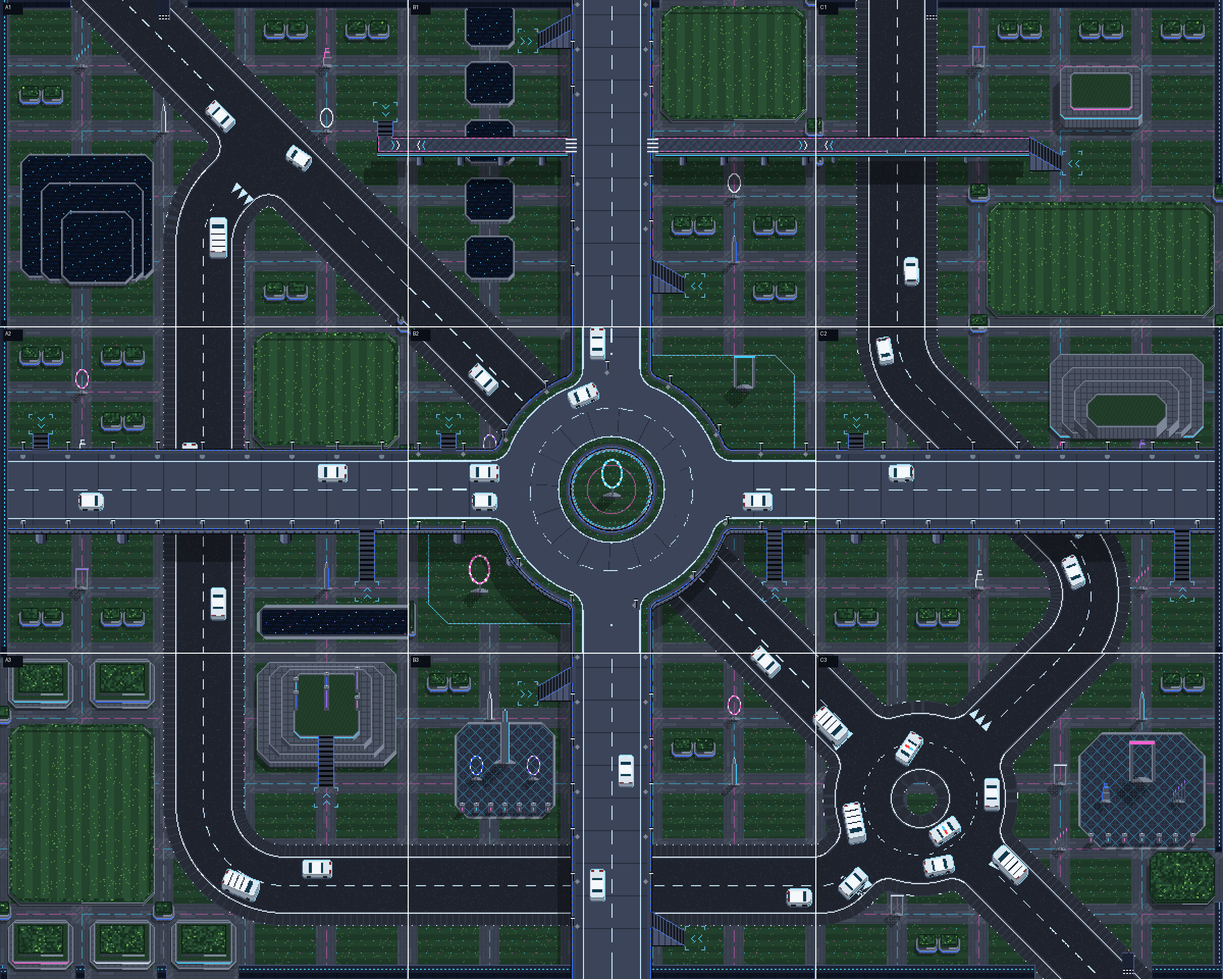
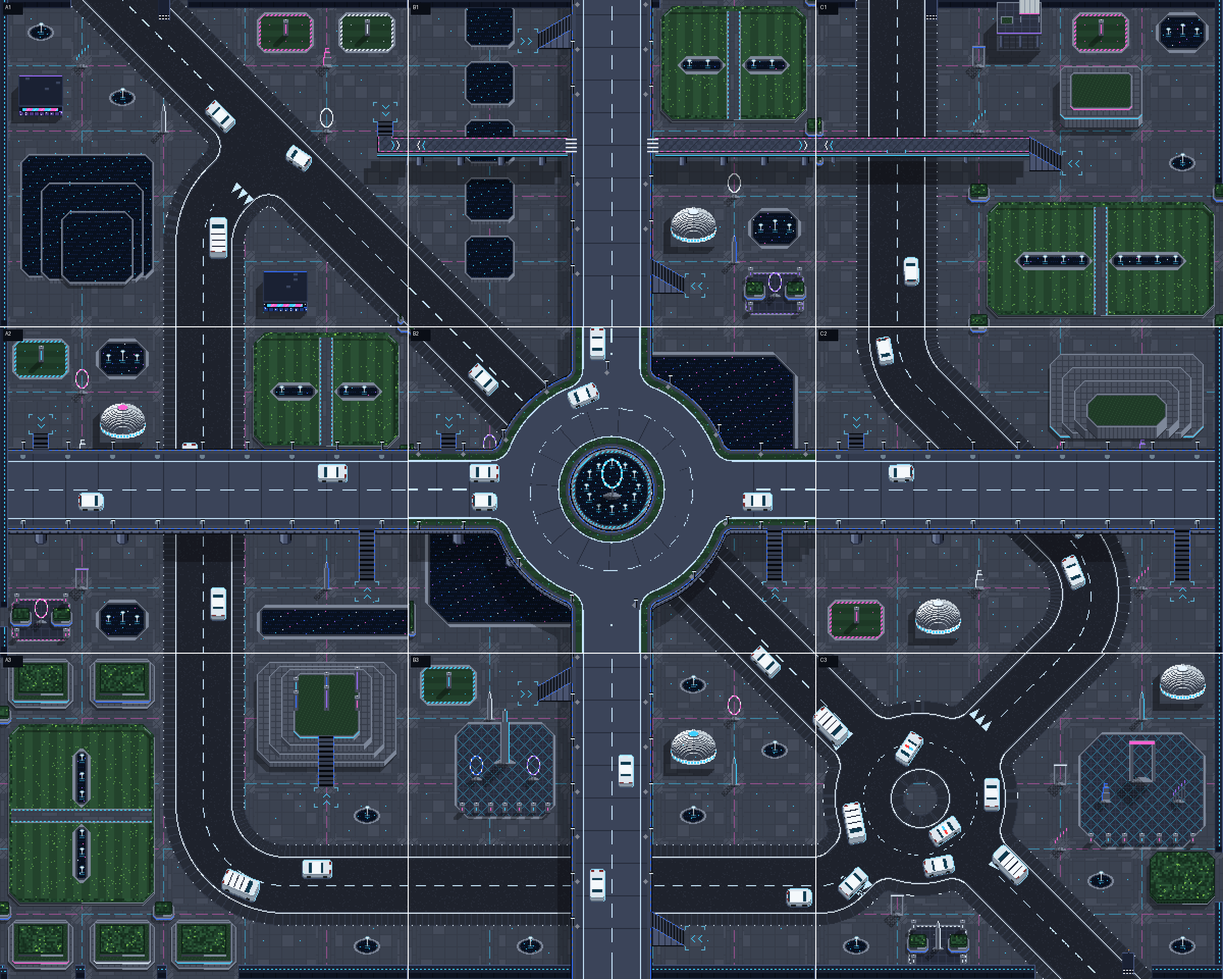
P6.5 (Edit 67): Parkland as an Expo site; pavilions, parterres, fountains, courts; the B2 pools back
- Paved site; open garden cells take a programme in a fixed rotation:
  pavilion (dome, LED box, canopy; solid to plan), parterre, fountain, court.
- Small round fountains in part-free cells; great lawns split by a
  cross-walk with reflecting rills and jets; jets draw as water.
- B2: the two pools back; the ring's island a fountain at Z1 with jets.
- Audit 200/200; test_p6.js 44/44. Decisions 358-362.

Claude-Session: https://claude.ai/code/session_01KeEnBqKVKChcdtWf1hTxkG

diff --git a/prototypes/p6/dummies_p6.html b/prototypes/p6/dummies_p6.html
@@ -5365,6 +5365,58 @@ document.getElementById('btn-full').addEventListener('click', () => {
     const a = GPL / U / 2, b = a * 0.7, x = wx / U, y = wy / U, fp = chamf(Math.round(x - a), Math.round(y - b), Math.round(x + a), Math.round(y + b), 3);
     mass(B, fp, x - a, y - b, x + a, y + b, 0, 3, 'conc', LEDS[1], true); mass(B, (px, py, i) => fp(px, py, (i || 0) + 2), x - a, y - b, x + a, y + b, 3, 4, 'hedge', null, false, 'hedge');
   }
+  // ---------- P6.5 (Edit 67): an Expo site. Every open garden cell takes a programme in a fixed rotation: a parterre (a framed lawn
+  // with a lit edge and a light at its centre), a plaza (planters, lit bollards), a fountain (a basin with jets) or a pavilion (a
+  // drum, an LED box or a canopy on pilotis; solid to its plan). The great lawn takes a reflecting rill with jets on its long axis.
+  const PROG = ['pavilion', 'parterre', 'fountain', 'plaza', 'parterre', 'pavilion', 'fountain', 'parterre']; // two pavilions, three parterres, two fountains, a court in eight
+  function jet(B, x, y, h) { // art px: a ripple ring at its foot, a fine column, a soft plume (a cloud of spray, never an arrow)
+    for (let i = -3; i <= 3; i++) for (const j of [-1, 1]) if (Math.abs(i) + Math.abs(j) * 2 <= 4) B.mix(x + i, y + j, N.cyan, 0.45);
+    for (let t = 1; t < h; t++) B.mix(x, y - t, K.white, 0.55 + 0.35 * t / h);
+    for (let j = -2; j <= 1; j++) for (let i = -2; i <= 2; i++) { const d = i * i / 4 + j * j / 2.2; if (d <= 1) B.mix(x + i, y - h + j, d < 0.45 ? K.white : mixK(K.white, N.cyan, 0.5), d < 0.45 ? 0.95 : 0.6); }
+  }
+  function domeSprite(rx, ry, wallH, led) { // art px: an Expo dome: a white drum with a glazed band, a ribbed dome, a lit oculus
+    const dh = Math.round(ry * 1.4), top = wallH + dh + 2, S = { w: 2 * rx + 3, h: 2 * ry + top + 3, ox: rx + 1, oy: ry + top + 1 }; S.d = new Uint32Array(S.w * S.h);
+    const put = (x, y, c) => { const X0 = x + S.ox, Y0 = y + S.oy; if (X0 >= 0 && Y0 >= 0 && X0 < S.w && Y0 < S.h) S.d[Y0 * S.w + X0] = c; };
+    for (let x = -rx; x <= rx; x++) { const yb = Math.round(ry * Math.sqrt(Math.max(0, 1 - (x * x) / (rx * rx)))), u = x / rx; for (let z = 0; z < wallH; z++) put(x, yb - z, z === 0 ? CON.d : z >= wallH - 3 && z < wallH - 1 ? (x % 3 ? N.cyan : K.white) : u < -0.5 ? N.stoneD : u > 0.4 ? N.stoneL : N.stone); }
+    for (let y = -ry; y <= ry; y++) for (let x = -rx; x <= rx; x++) { const e = (x * x) / (rx * rx) + (y * y) / (ry * ry); if (e > 1) continue; const lift = Math.round(dh * Math.sqrt(Math.max(0, 1 - e))), rib = Math.abs(Math.atan2(y * rx / ry, x) * 8 / Math.PI % 1) < 0.12; put(x, y - wallH - lift, e < 0.05 ? led : e > 0.85 ? N.stoneD : rib ? N.stoneD : x < 0 ? N.stoneL : N.stone); }
+    return S;
+  }
+  function parterre(B, r, led) {
+    const [x0, y0, x1, y1] = r, f = chamf(x0 + 8, y0 + 8, x1 - 8, y1 - 8, 16);
+    each((x, y, wx, wy) => { if (!f(wx, wy)) return; B.put(x, y, !f(wx, wy, 4) ? CON.l : !f(wx, wy, 8) ? ((x + y) % 4 < 2 ? led : CON.m) : (x % 16 === 8 && y % 16 === 8) ? mixK(TURF[1], led, 0.7) : TURF[Math.floor(y / 6) % 2]); });
+    monolith(B, (x0 + x1) / 2 / U, (y0 + y1) / 2 / U + 2, 0, 14, led);
+  }
+  function fountainCell(B, r) {
+    const [x0, y0, x1, y1] = r, f = chamf(x0 + 18, y0 + 14, x1 - 18, y1 - 14, 18), cx = (x0 + x1) / 2, cy = (y0 + y1) / 2;
+    poolFP(B, f); for (const dx of [-28, 0, 28]) jet(B, Math.round((cx + dx) / U), Math.round(cy / U) + 2, dx ? 6 : 10);
+  }
+  function plazaCell(B, r, led, i) { // a sculpture court, as B3 and C3: a lit kerb, paving, a sculpture on the axis, planters, a bollard at each corner
+    const [x0, y0, x1, y1] = r, f = chamf(x0 + 6, y0 + 6, x1 - 6, y1 - 6, 12), cx = (x0 + x1) / 2, cy = (y0 + y1) / 2;
+    each((x, y, wx, wy) => { if (!f(wx, wy)) return; B.put(x, y, !f(wx, wy, 2) ? CON.l : !f(wx, wy, 4) ? ((x + y) % 4 < 2 ? led : CON.m) : (x % 8 === 0 || y % 8 === 0) ? N.tile2 : (x % 16 === 4 && y % 16 === 4) ? mixK(N.tile, led, 0.5) : N.tile); });
+    sculpture(B, cx / U, cy / U + 2, SCULPT[i % SCULPT.length], led);
+    for (const sx of [-1, 1]) smallPlanter(B, cx + sx * (x1 - x0) * 0.32, cy);
+    for (const [sx, sy] of [[-1, -1], [1, -1], [-1, 1], [1, 1]]) bollard(B, (cx + sx * ((x1 - x0) / 2 - 16)) / U, (cy + sy * ((y1 - y0) / 2 - 14)) / U, led);
+  }
+  function fountainSmall(B, cx, cy, r) { // a round basin with one jet, for a cell the paths and flights leave part free
+    capture((wx, wy) => ((wx - cx) / r) ** 2 + ((wy - cy) / (r * 0.6)) ** 2 <= 1, cx - r, cy - r, cx + r, cy + r, true);
+    each((x, y, wx, wy) => { const e = ((wx - cx) / r) ** 2 + ((wy - cy) / (r * 0.6)) ** 2; if (e > 1) return; B.put(x, y, e > 0.72 ? CON.l : e > 0.55 ? CON.d : (x * 3 + y * 7) % 41 === 0 ? N.cyan : y % 4 === 0 && (x * 5 + y) % 11 < 4 ? N.water2 : N.water); });
+    jet(B, Math.round(cx / U), Math.round(cy / U), 9);
+  }
+  function pavilion(sc, B, r, i, led) {
+    const [x0, y0, x1, y1] = r, px = x0 + 20, py = y0 + 24, pw = x1 - x0 - 40, ph = y1 - y0 - 36, kind = ['dome', 'box', 'canopy'][i % 3], u = (v) => v / U;
+    if (kind === 'dome') {
+      const cx = px + pw / 2, cy = py + ph / 2, rx = Math.min(pw / 2, 44), ry = Math.min(ph / 2, 22);
+      capture((wx, wy) => ((wx - cx) / rx) ** 2 + ((wy - cy) / ry) ** 2 <= 1, cx - rx, cy - ry, cx + rx, cy + ry, true);
+      sc.props.push({ spr: domeSprite(Math.round(rx / U), Math.round(ry / U), STY, led), x: u(cx), y: u(cy), by: cy + ry + 2, bldg: 'pavilion', plan: [cx - rx * 0.7, cy - ry * 0.7, rx * 1.4, ry * 1.4] });
+    } else if (kind === 'box') {
+      captureRect(px, py, pw, ph);
+      sc.props.push({ spr: ledPanel(PIX.building(Math.round(u(pw)), Math.round(u(ph)), 2 * STY, PIX.rng(301 + i), led, 2), 2 * STY, [N.magenta, N.cyan]), x: u(px), y: u(py), by: py + ph, bldg: 'pavilion', plan: [px, py, pw, ph] });
+    } else {
+      captureRect(px, py, pw, ph);
+      sc.props.push({ spr: terraceSprite(Math.round(u(pw)), Math.round(u(ph)), true, led), x: u(px), y: u(py), by: py + ph, bldg: 'pavilion', plan: [px, py, pw, ph] });
+    }
+    brutalShadow(B, u(px), u(py), u(pw), u(ph), kind === 'canopy' ? Z1 : 2 * STY, null);
+  }
   function gardenPlan(B, o) { // o: { bedOk(wx, wy), rng, leds, pools, anchor: [x, y, w, h] or null }
     const nc = Math.ceil(W / GW), nr = Math.ceil(H / GH), rect = (gx, gy, nx, ny) => [gx * GW + GP / 2, gy * GH + GP / 2, Math.min(W - 8, (gx + nx) * GW - GP / 2), Math.min(H - 8, (gy + ny) * GH - GP / 2)];
     const okR = ([x0, y0, x1, y1]) => { for (let x = x0; x <= x1; x += 16) for (let y = y0; y <= y1; y += 16) if (!o.bedOk(x, y)) return false; return o.bedOk(x1, y1) && o.bedOk(x1, y0) && o.bedOk(x0, y1); };
@@ -5383,6 +5435,11 @@ document.getElementById('btn-full').addEventListener('click', () => {
       { const cw = chamf(x0, y0, x1, y1, 24), fpA = (x, y, ins) => cw((x + 0.5) * U, (y + 0.5) * U, (ins || 0) * U), ax0 = Math.floor(x0 / U), ay0 = Math.floor(y0 / U), ax1 = Math.ceil(x1 / U), ay1 = Math.ceil(y1 / U);
         for (let y = ay0; y <= ay1; y++) for (let x = ax0; x <= ax1; x++) if (fpA(x, y)) B.put(x, y, !fpA(x, y, 1) ? CON.l : greatC(x, y)); // the great lawn, mown in broad stripes
         mass(B, (x, y) => fpA(x, y, 1) && !fpA(x, y, 4), ax0, ay0, ax1, ay1, 0, 3, 'hedge', o.leds[0], true, 'hedge'); } // a clipped hedge frames it
+      { // P6.5 (Edit 67): the great lawn in four panels: a paved cross-walk on its short axis, a reflecting rill with jets either side on its long axis
+        const wide = x1 - x0 >= y1 - y0, cx = (x0 + x1) / 2, cy = (y0 + y1) / 2, L = (wide ? x1 - x0 : y1 - y0) * 0.36, inL = chamf(x0, y0, x1, y1, 24);
+        each((x, y, wx, wy) => { if (!inL(wx, wy, 6)) return; const d = Math.abs(wide ? wx - cx : wy - cy); if (d > 14) return; B.put(x, y, d > 12 ? CON.l : d > 10 ? ((x + y) % 4 < 2 ? N.cyan : CON.m) : slabC(x, y, wide ? 1 : 0)); });
+        for (const sg of [-1, 1]) { const a0 = sg < 0 ? -L : 22, a1 = sg < 0 ? -22 : L, f = wide ? chamf(cx + a0, cy - 12, cx + a1, cy + 12, 8) : chamf(cx - 12, cy + a0, cx + 12, cy + a1, 8);
+          poolFP(B, f); for (let t = a0 + 16; t <= a1 - 12; t += 36) jet(B, Math.round((wide ? cx + t : cx) / U), Math.round((wide ? cy : cy + t) / U) + 1, 6); } }
     }
     const pair = MED[Math.floor(o.rng() * MED.length)].slice(0, Math.max(1, GBT)), m = GP + 8;
     const touch = (r, A) => !!A && r[0] <= A[0] + A[2] + m && r[2] >= A[0] - m && r[1] <= A[1] + A[3] + m && r[3] >= A[1] - m;
@@ -5390,11 +5447,20 @@ document.getElementById('btn-full').addEventListener('click', () => {
     for (let gy = 0; gy < nr; gy++) for (let gx = 0; gx < nc; gx++) {
       if (used[gy][gx] !== 0) continue;
       const r = rect(gx, gy, 1, 1), [x0, y0, x1, y1] = r, type = touch(r, lawn) ? pair[0] : touch(r, o.anchor) ? pair[pair.length - 1] : null;
-      if (!type) { used[gy][gx] = 3; open.push(r); continue; } // an open square
+      if (!type) { used[gy][gx] = 3; open.push({ r, gx, gy }); continue; } // an open square: a programme (P6.5)
       const cw = chamf(x0, y0, x1, y1, 16), fpA = (x, y, ins) => cw((x + 0.5) * U, (y + 0.5) * U, (ins || 0) * U);
       drawBed(B, type, fpA, cw, Math.floor(x0 / U), Math.floor(y0 / U), Math.ceil(x1 / U), Math.ceil(y1 / U), r, o.leds[(gx + gy * 2) % o.leds.length]); used[gy][gx] = 1;
     }
-    for (const [x0, y0, x1, y1] of open) for (const f of [1 / 3, 2 / 3]) smallPlanter(B, x0 + (x1 - x0) * f, (y0 + y1) / 2); // small: two to each open square, on its axis
+    const seed = o.seed || 0, prog = open.map((c) => PROG[(c.gx * 3 + c.gy * 5 + seed) % PROG.length]);
+    if (open.length && !prog.includes('pavilion')) { const k = open.reduce((a, c, i) => (hyp((c.r[0] + c.r[2]) / 2 - W / 2, (c.r[1] + c.r[3]) / 2 - H / 2) < hyp((open[a].r[0] + open[a].r[2]) / 2 - W / 2, (open[a].r[1] + open[a].r[3]) / 2 - H / 2) ? i : a), 0); prog[k] = 'pavilion'; } // at least one pavilion a screen
+    open.forEach((c, i) => { const t = prog[i], led = o.leds[(c.gx + c.gy * 2) % o.leds.length]; if (t === 'parterre') parterre(B, c.r, led); else if (t === 'fountain') fountainCell(B, c.r); else if (t === 'pavilion' && o.sc) pavilion(o.sc, B, c.r, c.gx + c.gy + seed, led); else plazaCell(B, c.r, led, c.gx + c.gy + seed); });
+    for (let gy = 0; gy < nr; gy++) for (let gx = 0; gx < nc; gx++) { // P6.5: a cell the roads, decks or flights leave part free takes a small fountain at its centre
+      if (used[gy][gx] !== -1 || (gx + gy + seed) % 2) continue;
+      const r = rect(gx, gy, 1, 1), cx = (r[0] + r[2]) / 2, cy = (r[1] + r[3]) / 2;
+      if (r[2] - r[0] < 96 || r[3] - r[1] < 72) continue;
+      let ok = true; for (let a = 0; a < 16 && ok; a++) { const t = a * Math.PI / 8; for (const rr of [0, 20, 40]) if (!o.bedOk(cx + Math.cos(t) * rr, cy + Math.sin(t) * rr * 0.75)) { ok = false; break; } }
+      if (ok) { fountainSmall(B, cx, cy, 26); used[gy][gx] = 4; }
+    }
     if (best) for (const [x, y] of [[best.r[0] - GP / 2, best.r[1] - GP / 2], [best.r[2] + GP / 2, best.r[1] - GP / 2], [best.r[0] - GP / 2, best.r[3] + GP / 2], [best.r[2] + GP / 2, best.r[3] + GP / 2]]) if (o.bedOk(x, y)) smallPlanter(B, x, y); // and one at each corner of the lawn
     const crossings = []; // the crossings left for sculptures: away from the lawn's corners
     for (let j = 1; j < nr; j++) for (let i = 1; i < nc; i++) { const x = i * GW, y = j * GH; if (o.bedOk(x, y) && !(best && touch([x - 1, y - 1, x + 1, y + 1], lawn))) crossings.push([x, y]); }
@@ -6107,9 +6173,10 @@ document.getElementById('btn-full').addEventListener('click', () => {
       const ringDeck = ringLayer(rr, 1, cx, cy, Rc, (x, y) => !roadOk(x, y, OUTER + C + 4) || sc.stairs.some((st) => x > st.x - C && x < st.x + st.w + C && Math.abs(y - st.y - st.h / 2) < st.h / 2 + HALF), sc.stairs.map((st) => [st.x + 2, st.x + st.w - 2, st.side]), D.id === 'parkland' ? turfC : null); // P6.4: Parkland's ring planted on its shoulders
       ringDeck.front = 1e5; ringDeck.extend = true; ringDeck.cars = () => ringSim.cars.concat((sc.seam || []).filter((g) => g.deck)); // P5.3: and highway cars arriving from next door
       sc.layers.push(ringDeck); sc.ringDeck = ringDeck;
-      if (D.id === 'parkland') { // P6.4 (Edit 66): the ring's island is a garden at Z1: cyber turf, a lit rim, a sculpture of light
+      if (D.id === 'parkland') { // P6.4 (Edit 66): the ring's island at Z1; P6.5 (Edit 67): a fountain basin, a ring of jets, a sculpture of light
         const RI = Rc - HALF - 1, Lr = ringDeck.L, isl = (wx, wy) => hyp(wx - cx, wy - cy) < RI;
-        each((x, y, wx, wy) => { const d = hyp(wx - cx, wy - cy); if (d >= RI) return; Lr.put(x, y, d > RI - 2 ? CON.l : d > RI - 5 ? ((x + y) % 4 < 2 ? N.cyan : CON.m) : Math.abs(d - RI * 0.6) < 1 ? mixK(TURF[1], N.magenta, 0.6) : turfC(x, y)); });
+        each((x, y, wx, wy) => { const d = hyp(wx - cx, wy - cy); if (d >= RI) return; Lr.put(x, y, d > RI - 3 ? CON.l : d > RI - 6 ? ((x + y) % 4 < 2 ? N.cyan : CON.m) : d > RI - 8 ? CON.d : (x * 3 + y * 7) % 53 === 0 ? N.cyan : y % 4 === 0 && (x * 5 + y) % 11 < 4 ? N.water2 : N.water); });
+        for (let i = 0; i < 12; i++) { const a = i * Math.PI / 6, jx = Math.round(cx / U + Math.cos(a) * (RI / U - 14)), jy = Math.round(cy / U + Math.sin(a) * (RI / U - 14) * 0.9); jet(Lr, jx, jy, 5 + (i % 2) * 2); }
         const cap = CAP; CAP = null; sculpture(Lr, cx / U, cy / U + 6, 'ring', N.cyan, 1.6); CAP = cap;
         const ib = ringDeck.inBand, so = ringDeck.shadeOn, k = P['proto.art.shadowScale'], sx = PIX.SUN.x * P['world.deckHeight'] * k / U, sy = PIX.SUN.y * P['world.deckHeight'] * k / U;
         ringDeck.inBand = (wx, wy) => ib(wx, wy) || isl(wx, wy);
@@ -6172,16 +6239,12 @@ document.getElementById('btn-full').addEventListener('click', () => {
   // ---------- Parkland: gardens, water, the Z1 ring
   function parkTile(sc, B, name, roadOk, free, rng, runs) {
     const okP = (wx, wy) => roadOk(wx, wy, OUTER);
-    gardenPave(B, okP, null, true);
+    gardenPave(B, okP, null); // P6.5 (Edit 67): paved, as an Expo site; lawns are parterres
     const R = sc.reserve, led = (i) => LEDS[i % LEDS.length];
     if (name === 'B2') { // pools under the ring, cut at 45° along the boulevard (x − y = 80 in B2)
       const side = (wx, wy, s0, m) => s0 * (wx - wy - 80) / Math.SQRT2 > OUTER + 16 + (m || 0);
       const ne = (wx, wy, ins) => chamf(440, 56, 760, 300, 40)(wx, wy, ins) && side(wx, wy, 1, ins), sw = (wx, wy, ins) => chamf(40, 340, 360, 584, 40)(wx, wy, ins) && side(wx, wy, -1, ins);
-      // P6.4 (Edit 66): the pools become lawns with a lit edge, each with a large sculpture of light
-      const lawnIn = (f, s0) => (wx, wy) => f(wx, wy, 0) && side(wx, wy, s0, 60);
-      for (const [f, s0] of [[ne, 1], [sw, -1]]) { const L = lawnIn(f, s0); each((x, y, wx, wy) => { if (!L(wx, wy)) return; B.put(x, y, !L(wx - U, wy) || !L(wx + U, wy) || !L(wx, wy - U) || !L(wx, wy + U) ? ((x + y) % 4 < 2 ? N.cyan : CON.l) : turfC(x, y)); }); }
-      sculpture(B, 660 / U, 120 / U, 'arch', N.cyan, 1.6); sculpture(B, 140 / U, 520 / U, 'ring', N.magenta, 1.6);
-      R.push([430, 46, 340, 264], [30, 330, 340, 264]);
+      poolFP(B, ne); poolFP(B, sw); R.push([430, 46, 340, 264], [30, 330, 340, 264]); // P6.5: the two pools back
     }
     if (name === 'A1') R.push([24, 300, 300, 280], [700, 224, 140, 120]);
     if (name === 'B1') R.push([104, 24, 112, 560], [0, 280, 800, 80]);
@@ -6192,7 +6255,7 @@ document.getElementById('btn-full').addEventListener('click', () => {
     if (name === 'B3') R.push([90, 130, 200, 200]);
     if (name === 'C3') R.push([510, 150, 260, 240]);
     const ANCHOR = { A1: [24, 300, 300, 280], B1: [104, 24, 112, 560], B2: [200, 100, 400, 440], C2: [440, 40, 340, 190], A3: [496, 20, 288, 212], C3: [520, 160, 240, 220] }; // Edit 55: the tile's set piece is its large unit
-    const left = gardenPlan(B, { bedOk: (wx, wy) => free(wx, wy, 8), rng, leds: LEDS, pools: name !== 'B2', anchor: ANCHOR[name] || null });
+    const left = gardenPlan(B, { bedOk: (wx, wy) => free(wx, wy, 8), rng, leds: LEDS, pools: name !== 'B2', anchor: ANCHOR[name] || null, sc, seed: sc.col * 3 + sc.row * 7 });
     gardenSculptures(B, (wx, wy) => free(wx, wy, 16), null, rng, 4, left); // P6.4: four lit sculptures a screen
     const u = (v) => v / U;
     if (name === 'A1') { for (let i = 0; i < 3; i++) waterBlock(B, u(40 + i * 40), u(320 + i * 50), u(300 - i * 20), u(560), 8, 6 - i * 3, 3); sc.terraces = true; } // reservoir terraces, stepping down to the south

diff --git a/prototypes/p6/world6.js b/prototypes/p6/world6.js
@@ -153,6 +153,58 @@
     const a = GPL / U / 2, b = a * 0.7, x = wx / U, y = wy / U, fp = chamf(Math.round(x - a), Math.round(y - b), Math.round(x + a), Math.round(y + b), 3);
     mass(B, fp, x - a, y - b, x + a, y + b, 0, 3, 'conc', LEDS[1], true); mass(B, (px, py, i) => fp(px, py, (i || 0) + 2), x - a, y - b, x + a, y + b, 3, 4, 'hedge', null, false, 'hedge');
   }
+  // ---------- P6.5 (Edit 67): an Expo site. Every open garden cell takes a programme in a fixed rotation: a parterre (a framed lawn
+  // with a lit edge and a light at its centre), a plaza (planters, lit bollards), a fountain (a basin with jets) or a pavilion (a
+  // drum, an LED box or a canopy on pilotis; solid to its plan). The great lawn takes a reflecting rill with jets on its long axis.
+  const PROG = ['pavilion', 'parterre', 'fountain', 'plaza', 'parterre', 'pavilion', 'fountain', 'parterre']; // two pavilions, three parterres, two fountains, a court in eight
+  function jet(B, x, y, h) { // art px: a ripple ring at its foot, a fine column, a soft plume (a cloud of spray, never an arrow)
+    for (let i = -3; i <= 3; i++) for (const j of [-1, 1]) if (Math.abs(i) + Math.abs(j) * 2 <= 4) B.mix(x + i, y + j, N.cyan, 0.45);
+    for (let t = 1; t < h; t++) B.mix(x, y - t, K.white, 0.55 + 0.35 * t / h);
+    for (let j = -2; j <= 1; j++) for (let i = -2; i <= 2; i++) { const d = i * i / 4 + j * j / 2.2; if (d <= 1) B.mix(x + i, y - h + j, d < 0.45 ? K.white : mixK(K.white, N.cyan, 0.5), d < 0.45 ? 0.95 : 0.6); }
+  }
+  function domeSprite(rx, ry, wallH, led) { // art px: an Expo dome: a white drum with a glazed band, a ribbed dome, a lit oculus
+    const dh = Math.round(ry * 1.4), top = wallH + dh + 2, S = { w: 2 * rx + 3, h: 2 * ry + top + 3, ox: rx + 1, oy: ry + top + 1 }; S.d = new Uint32Array(S.w * S.h);
+    const put = (x, y, c) => { const X0 = x + S.ox, Y0 = y + S.oy; if (X0 >= 0 && Y0 >= 0 && X0 < S.w && Y0 < S.h) S.d[Y0 * S.w + X0] = c; };
+    for (let x = -rx; x <= rx; x++) { const yb = Math.round(ry * Math.sqrt(Math.max(0, 1 - (x * x) / (rx * rx)))), u = x / rx; for (let z = 0; z < wallH; z++) put(x, yb - z, z === 0 ? CON.d : z >= wallH - 3 && z < wallH - 1 ? (x % 3 ? N.cyan : K.white) : u < -0.5 ? N.stoneD : u > 0.4 ? N.stoneL : N.stone); }
+    for (let y = -ry; y <= ry; y++) for (let x = -rx; x <= rx; x++) { const e = (x * x) / (rx * rx) + (y * y) / (ry * ry); if (e > 1) continue; const lift = Math.round(dh * Math.sqrt(Math.max(0, 1 - e))), rib = Math.abs(Math.atan2(y * rx / ry, x) * 8 / Math.PI % 1) < 0.12; put(x, y - wallH - lift, e < 0.05 ? led : e > 0.85 ? N.stoneD : rib ? N.stoneD : x < 0 ? N.stoneL : N.stone); }
+    return S;
+  }
+  function parterre(B, r, led) {
+    const [x0, y0, x1, y1] = r, f = chamf(x0 + 8, y0 + 8, x1 - 8, y1 - 8, 16);
+    each((x, y, wx, wy) => { if (!f(wx, wy)) return; B.put(x, y, !f(wx, wy, 4) ? CON.l : !f(wx, wy, 8) ? ((x + y) % 4 < 2 ? led : CON.m) : (x % 16 === 8 && y % 16 === 8) ? mixK(TURF[1], led, 0.7) : TURF[Math.floor(y / 6) % 2]); });
+    monolith(B, (x0 + x1) / 2 / U, (y0 + y1) / 2 / U + 2, 0, 14, led);
+  }
+  function fountainCell(B, r) {
+    const [x0, y0, x1, y1] = r, f = chamf(x0 + 18, y0 + 14, x1 - 18, y1 - 14, 18), cx = (x0 + x1) / 2, cy = (y0 + y1) / 2;
+    poolFP(B, f); for (const dx of [-28, 0, 28]) jet(B, Math.round((cx + dx) / U), Math.round(cy / U) + 2, dx ? 6 : 10);
+  }
+  function plazaCell(B, r, led, i) { // a sculpture court, as B3 and C3: a lit kerb, paving, a sculpture on the axis, planters, a bollard at each corner
+    const [x0, y0, x1, y1] = r, f = chamf(x0 + 6, y0 + 6, x1 - 6, y1 - 6, 12), cx = (x0 + x1) / 2, cy = (y0 + y1) / 2;
+    each((x, y, wx, wy) => { if (!f(wx, wy)) return; B.put(x, y, !f(wx, wy, 2) ? CON.l : !f(wx, wy, 4) ? ((x + y) % 4 < 2 ? led : CON.m) : (x % 8 === 0 || y % 8 === 0) ? N.tile2 : (x % 16 === 4 && y % 16 === 4) ? mixK(N.tile, led, 0.5) : N.tile); });
+    sculpture(B, cx / U, cy / U + 2, SCULPT[i % SCULPT.length], led);
+    for (const sx of [-1, 1]) smallPlanter(B, cx + sx * (x1 - x0) * 0.32, cy);
+    for (const [sx, sy] of [[-1, -1], [1, -1], [-1, 1], [1, 1]]) bollard(B, (cx + sx * ((x1 - x0) / 2 - 16)) / U, (cy + sy * ((y1 - y0) / 2 - 14)) / U, led);
+  }
+  function fountainSmall(B, cx, cy, r) { // a round basin with one jet, for a cell the paths and flights leave part free
+    capture((wx, wy) => ((wx - cx) / r) ** 2 + ((wy - cy) / (r * 0.6)) ** 2 <= 1, cx - r, cy - r, cx + r, cy + r, true);
+    each((x, y, wx, wy) => { const e = ((wx - cx) / r) ** 2 + ((wy - cy) / (r * 0.6)) ** 2; if (e > 1) return; B.put(x, y, e > 0.72 ? CON.l : e > 0.55 ? CON.d : (x * 3 + y * 7) % 41 === 0 ? N.cyan : y % 4 === 0 && (x * 5 + y) % 11 < 4 ? N.water2 : N.water); });
+    jet(B, Math.round(cx / U), Math.round(cy / U), 9);
+  }
+  function pavilion(sc, B, r, i, led) {
+    const [x0, y0, x1, y1] = r, px = x0 + 20, py = y0 + 24, pw = x1 - x0 - 40, ph = y1 - y0 - 36, kind = ['dome', 'box', 'canopy'][i % 3], u = (v) => v / U;
+    if (kind === 'dome') {
+      const cx = px + pw / 2, cy = py + ph / 2, rx = Math.min(pw / 2, 44), ry = Math.min(ph / 2, 22);
+      capture((wx, wy) => ((wx - cx) / rx) ** 2 + ((wy - cy) / ry) ** 2 <= 1, cx - rx, cy - ry, cx + rx, cy + ry, true);
+      sc.props.push({ spr: domeSprite(Math.round(rx / U), Math.round(ry / U), STY, led), x: u(cx), y: u(cy), by: cy + ry + 2, bldg: 'pavilion', plan: [cx - rx * 0.7, cy - ry * 0.7, rx * 1.4, ry * 1.4] });
+    } else if (kind === 'box') {
+      captureRect(px, py, pw, ph);
+      sc.props.push({ spr: ledPanel(PIX.building(Math.round(u(pw)), Math.round(u(ph)), 2 * STY, PIX.rng(301 + i), led, 2), 2 * STY, [N.magenta, N.cyan]), x: u(px), y: u(py), by: py + ph, bldg: 'pavilion', plan: [px, py, pw, ph] });
+    } else {
+      captureRect(px, py, pw, ph);
+      sc.props.push({ spr: terraceSprite(Math.round(u(pw)), Math.round(u(ph)), true, led), x: u(px), y: u(py), by: py + ph, bldg: 'pavilion', plan: [px, py, pw, ph] });
+    }
+    brutalShadow(B, u(px), u(py), u(pw), u(ph), kind === 'canopy' ? Z1 : 2 * STY, null);
+  }
   function gardenPlan(B, o) { // o: { bedOk(wx, wy), rng, leds, pools, anchor: [x, y, w, h] or null }
     const nc = Math.ceil(W / GW), nr = Math.ceil(H / GH), rect = (gx, gy, nx, ny) => [gx * GW + GP / 2, gy * GH + GP / 2, Math.min(W - 8, (gx + nx) * GW - GP / 2), Math.min(H - 8, (gy + ny) * GH - GP / 2)];
     const okR = ([x0, y0, x1, y1]) => { for (let x = x0; x <= x1; x += 16) for (let y = y0; y <= y1; y += 16) if (!o.bedOk(x, y)) return false; return o.bedOk(x1, y1) && o.bedOk(x1, y0) && o.bedOk(x0, y1); };
@@ -171,6 +223,11 @@
       { const cw = chamf(x0, y0, x1, y1, 24), fpA = (x, y, ins) => cw((x + 0.5) * U, (y + 0.5) * U, (ins || 0) * U), ax0 = Math.floor(x0 / U), ay0 = Math.floor(y0 / U), ax1 = Math.ceil(x1 / U), ay1 = Math.ceil(y1 / U);
         for (let y = ay0; y <= ay1; y++) for (let x = ax0; x <= ax1; x++) if (fpA(x, y)) B.put(x, y, !fpA(x, y, 1) ? CON.l : greatC(x, y)); // the great lawn, mown in broad stripes
         mass(B, (x, y) => fpA(x, y, 1) && !fpA(x, y, 4), ax0, ay0, ax1, ay1, 0, 3, 'hedge', o.leds[0], true, 'hedge'); } // a clipped hedge frames it
+      { // P6.5 (Edit 67): the great lawn in four panels: a paved cross-walk on its short axis, a reflecting rill with jets either side on its long axis
+        const wide = x1 - x0 >= y1 - y0, cx = (x0 + x1) / 2, cy = (y0 + y1) / 2, L = (wide ? x1 - x0 : y1 - y0) * 0.36, inL = chamf(x0, y0, x1, y1, 24);
+        each((x, y, wx, wy) => { if (!inL(wx, wy, 6)) return; const d = Math.abs(wide ? wx - cx : wy - cy); if (d > 14) return; B.put(x, y, d > 12 ? CON.l : d > 10 ? ((x + y) % 4 < 2 ? N.cyan : CON.m) : slabC(x, y, wide ? 1 : 0)); });
+        for (const sg of [-1, 1]) { const a0 = sg < 0 ? -L : 22, a1 = sg < 0 ? -22 : L, f = wide ? chamf(cx + a0, cy - 12, cx + a1, cy + 12, 8) : chamf(cx - 12, cy + a0, cx + 12, cy + a1, 8);
+          poolFP(B, f); for (let t = a0 + 16; t <= a1 - 12; t += 36) jet(B, Math.round((wide ? cx + t : cx) / U), Math.round((wide ? cy : cy + t) / U) + 1, 6); } }
     }
     const pair = MED[Math.floor(o.rng() * MED.length)].slice(0, Math.max(1, GBT)), m = GP + 8;
     const touch = (r, A) => !!A && r[0] <= A[0] + A[2] + m && r[2] >= A[0] - m && r[1] <= A[1] + A[3] + m && r[3] >= A[1] - m;
@@ -178,11 +235,20 @@
     for (let gy = 0; gy < nr; gy++) for (let gx = 0; gx < nc; gx++) {
       if (used[gy][gx] !== 0) continue;
       const r = rect(gx, gy, 1, 1), [x0, y0, x1, y1] = r, type = touch(r, lawn) ? pair[0] : touch(r, o.anchor) ? pair[pair.length - 1] : null;
-      if (!type) { used[gy][gx] = 3; open.push(r); continue; } // an open square
+      if (!type) { used[gy][gx] = 3; open.push({ r, gx, gy }); continue; } // an open square: a programme (P6.5)
       const cw = chamf(x0, y0, x1, y1, 16), fpA = (x, y, ins) => cw((x + 0.5) * U, (y + 0.5) * U, (ins || 0) * U);
       drawBed(B, type, fpA, cw, Math.floor(x0 / U), Math.floor(y0 / U), Math.ceil(x1 / U), Math.ceil(y1 / U), r, o.leds[(gx + gy * 2) % o.leds.length]); used[gy][gx] = 1;
     }
-    for (const [x0, y0, x1, y1] of open) for (const f of [1 / 3, 2 / 3]) smallPlanter(B, x0 + (x1 - x0) * f, (y0 + y1) / 2); // small: two to each open square, on its axis
+    const seed = o.seed || 0, prog = open.map((c) => PROG[(c.gx * 3 + c.gy * 5 + seed) % PROG.length]);
+    if (open.length && !prog.includes('pavilion')) { const k = open.reduce((a, c, i) => (hyp((c.r[0] + c.r[2]) / 2 - W / 2, (c.r[1] + c.r[3]) / 2 - H / 2) < hyp((open[a].r[0] + open[a].r[2]) / 2 - W / 2, (open[a].r[1] + open[a].r[3]) / 2 - H / 2) ? i : a), 0); prog[k] = 'pavilion'; } // at least one pavilion a screen
+    open.forEach((c, i) => { const t = prog[i], led = o.leds[(c.gx + c.gy * 2) % o.leds.length]; if (t === 'parterre') parterre(B, c.r, led); else if (t === 'fountain') fountainCell(B, c.r); else if (t === 'pavilion' && o.sc) pavilion(o.sc, B, c.r, c.gx + c.gy + seed, led); else plazaCell(B, c.r, led, c.gx + c.gy + seed); });
+    for (let gy = 0; gy < nr; gy++) for (let gx = 0; gx < nc; gx++) { // P6.5: a cell the roads, decks or flights leave part free takes a small fountain at its centre
+      if (used[gy][gx] !== -1 || (gx + gy + seed) % 2) continue;
+      const r = rect(gx, gy, 1, 1), cx = (r[0] + r[2]) / 2, cy = (r[1] + r[3]) / 2;
+      if (r[2] - r[0] < 96 || r[3] - r[1] < 72) continue;
+      let ok = true; for (let a = 0; a < 16 && ok; a++) { const t = a * Math.PI / 8; for (const rr of [0, 20, 40]) if (!o.bedOk(cx + Math.cos(t) * rr, cy + Math.sin(t) * rr * 0.75)) { ok = false; break; } }
+      if (ok) { fountainSmall(B, cx, cy, 26); used[gy][gx] = 4; }
+    }
     if (best) for (const [x, y] of [[best.r[0] - GP / 2, best.r[1] - GP / 2], [best.r[2] + GP / 2, best.r[1] - GP / 2], [best.r[0] - GP / 2, best.r[3] + GP / 2], [best.r[2] + GP / 2, best.r[3] + GP / 2]]) if (o.bedOk(x, y)) smallPlanter(B, x, y); // and one at each corner of the lawn
     const crossings = []; // the crossings left for sculptures: away from the lawn's corners
     for (let j = 1; j < nr; j++) for (let i = 1; i < nc; i++) { const x = i * GW, y = j * GH; if (o.bedOk(x, y) && !(best && touch([x - 1, y - 1, x + 1, y + 1], lawn))) crossings.push([x, y]); }
@@ -895,9 +961,10 @@
       const ringDeck = ringLayer(rr, 1, cx, cy, Rc, (x, y) => !roadOk(x, y, OUTER + C + 4) || sc.stairs.some((st) => x > st.x - C && x < st.x + st.w + C && Math.abs(y - st.y - st.h / 2) < st.h / 2 + HALF), sc.stairs.map((st) => [st.x + 2, st.x + st.w - 2, st.side]), D.id === 'parkland' ? turfC : null); // P6.4: Parkland's ring planted on its shoulders
       ringDeck.front = 1e5; ringDeck.extend = true; ringDeck.cars = () => ringSim.cars.concat((sc.seam || []).filter((g) => g.deck)); // P5.3: and highway cars arriving from next door
       sc.layers.push(ringDeck); sc.ringDeck = ringDeck;
-      if (D.id === 'parkland') { // P6.4 (Edit 66): the ring's island is a garden at Z1: cyber turf, a lit rim, a sculpture of light
+      if (D.id === 'parkland') { // P6.4 (Edit 66): the ring's island at Z1; P6.5 (Edit 67): a fountain basin, a ring of jets, a sculpture of light
         const RI = Rc - HALF - 1, Lr = ringDeck.L, isl = (wx, wy) => hyp(wx - cx, wy - cy) < RI;
-        each((x, y, wx, wy) => { const d = hyp(wx - cx, wy - cy); if (d >= RI) return; Lr.put(x, y, d > RI - 2 ? CON.l : d > RI - 5 ? ((x + y) % 4 < 2 ? N.cyan : CON.m) : Math.abs(d - RI * 0.6) < 1 ? mixK(TURF[1], N.magenta, 0.6) : turfC(x, y)); });
+        each((x, y, wx, wy) => { const d = hyp(wx - cx, wy - cy); if (d >= RI) return; Lr.put(x, y, d > RI - 3 ? CON.l : d > RI - 6 ? ((x + y) % 4 < 2 ? N.cyan : CON.m) : d > RI - 8 ? CON.d : (x * 3 + y * 7) % 53 === 0 ? N.cyan : y % 4 === 0 && (x * 5 + y) % 11 < 4 ? N.water2 : N.water); });
+        for (let i = 0; i < 12; i++) { const a = i * Math.PI / 6, jx = Math.round(cx / U + Math.cos(a) * (RI / U - 14)), jy = Math.round(cy / U + Math.sin(a) * (RI / U - 14) * 0.9); jet(Lr, jx, jy, 5 + (i % 2) * 2); }
         const cap = CAP; CAP = null; sculpture(Lr, cx / U, cy / U + 6, 'ring', N.cyan, 1.6); CAP = cap;
         const ib = ringDeck.inBand, so = ringDeck.shadeOn, k = P['proto.art.shadowScale'], sx = PIX.SUN.x * P['world.deckHeight'] * k / U, sy = PIX.SUN.y * P['world.deckHeight'] * k / U;
         ringDeck.inBand = (wx, wy) => ib(wx, wy) || isl(wx, wy);
@@ -960,16 +1027,12 @@
   // ---------- Parkland: gardens, water, the Z1 ring
   function parkTile(sc, B, name, roadOk, free, rng, runs) {
     const okP = (wx, wy) => roadOk(wx, wy, OUTER);
-    gardenPave(B, okP, null, true);
+    gardenPave(B, okP, null); // P6.5 (Edit 67): paved, as an Expo site; lawns are parterres
     const R = sc.reserve, led = (i) => LEDS[i % LEDS.length];
     if (name === 'B2') { // pools under the ring, cut at 45° along the boulevard (x − y = 80 in B2)
       const side = (wx, wy, s0, m) => s0 * (wx - wy - 80) / Math.SQRT2 > OUTER + 16 + (m || 0);
       const ne = (wx, wy, ins) => chamf(440, 56, 760, 300, 40)(wx, wy, ins) && side(wx, wy, 1, ins), sw = (wx, wy, ins) => chamf(40, 340, 360, 584, 40)(wx, wy, ins) && side(wx, wy, -1, ins);
-      // P6.4 (Edit 66): the pools become lawns with a lit edge, each with a large sculpture of light
-      const lawnIn = (f, s0) => (wx, wy) => f(wx, wy, 0) && side(wx, wy, s0, 60);
-      for (const [f, s0] of [[ne, 1], [sw, -1]]) { const L = lawnIn(f, s0); each((x, y, wx, wy) => { if (!L(wx, wy)) return; B.put(x, y, !L(wx - U, wy) || !L(wx + U, wy) || !L(wx, wy - U) || !L(wx, wy + U) ? ((x + y) % 4 < 2 ? N.cyan : CON.l) : turfC(x, y)); }); }
-      sculpture(B, 660 / U, 120 / U, 'arch', N.cyan, 1.6); sculpture(B, 140 / U, 520 / U, 'ring', N.magenta, 1.6);
-      R.push([430, 46, 340, 264], [30, 330, 340, 264]);
+      poolFP(B, ne); poolFP(B, sw); R.push([430, 46, 340, 264], [30, 330, 340, 264]); // P6.5: the two pools back
     }
     if (name === 'A1') R.push([24, 300, 300, 280], [700, 224, 140, 120]);
     if (name === 'B1') R.push([104, 24, 112, 560], [0, 280, 800, 80]);
@@ -980,7 +1043,7 @@
     if (name === 'B3') R.push([90, 130, 200, 200]);
     if (name === 'C3') R.push([510, 150, 260, 240]);
     const ANCHOR = { A1: [24, 300, 300, 280], B1: [104, 24, 112, 560], B2: [200, 100, 400, 440], C2: [440, 40, 340, 190], A3: [496, 20, 288, 212], C3: [520, 160, 240, 220] }; // Edit 55: the tile's set piece is its large unit
-    const left = gardenPlan(B, { bedOk: (wx, wy) => free(wx, wy, 8), rng, leds: LEDS, pools: name !== 'B2', anchor: ANCHOR[name] || null });
+    const left = gardenPlan(B, { bedOk: (wx, wy) => free(wx, wy, 8), rng, leds: LEDS, pools: name !== 'B2', anchor: ANCHOR[name] || null, sc, seed: sc.col * 3 + sc.row * 7 });
     gardenSculptures(B, (wx, wy) => free(wx, wy, 16), null, rng, 4, left); // P6.4: four lit sculptures a screen
     const u = (v) => v / U;
     if (name === 'A1') { for (let i = 0; i < 3; i++) waterBlock(B, u(40 + i * 40), u(320 + i * 50), u(300 - i * 20), u(560), 8, 6 - i * 3, 3); sc.terraces = true; } // reservoir terraces, stepping down to the south

diff --git a/DECISIONS.md b/DECISIONS.md
@@ -371,6 +371,11 @@ All entries dated 6 October 2026 unless stated. Times are not recorded.
 | 355 | Raised layers are drawn past the bottom edge by their lift, so a walkway reaches the screen's edge as drawn. A screen's edge never ends a walkway (no end parapet). Chevrons sit at the edge as drawn | user-directed: "Square B1 in monument has the end of the vertical walkway that doesn't lead to the edge of the screen … should it pass to the next row?" | Continuity reads | — | `test_p6.js` |
 | 356 | At a level, a north–south screen crossing happens at the edge as drawn (the floor's lift), where next door has a floor there | proposed (assistant, 27 October), with row 355 | The dummy never leaves the view | — | B1 → B2 at Z1: crosses at y 639 → 1 |
 | 357 | Walkway openings: the snapped rail ends in the rail's contrast (cyan on the magenta rail); the opening slides along its spine (up to a lane's half) until its ends, as drawn, stand clear of the road's markings below | user-directed: "instead of having it white, have it as a contrasting colour … also position it at a slightly offset position from the road marking" | The opening reads apart from the road | — | 13+ units clear |
+| 358 | Parkland is an Expo site: paved, with deliberate pieces. Replaces row 351's turf in every cell | user-directed (27 October): "it should read like a deliberate landscape - like a World Expo site … like a past olympic games, or World Expo site with pavilions" | Reads as designed | Less green than P6.4 | `docs/p67_parkland_expo.png` |
+| 359 | Every open garden cell takes a programme in a fixed rotation of eight: pavilion, parterre, fountain, court, parterre, pavilion, fountain, parterre. At least one pavilion a screen. Pavilions: a dome, an LED box or a canopy, solid to their plans. Courts as B3 and C3: a lit kerb, a sculpture, planters, corner bollards | proposed (assistant, 27 October), from "A3 and B3 and C3 with their decorative elements … is the right mood" | Eight pavilions in the district | — | `tools/p6_audit.js` 200/200 |
+| 360 | Water features: fountains (an octagonal basin, three jets) in the rotation; a small round fountain in every other cell the roads, decks and flights leave part free; each great lawn split by a paved cross-walk with a reflecting rill and jets on its long axis | user-directed: "some water features scattered around"; forms proposed | Water throughout | — | `docs/p67_parkland_expo.png` |
+| 361 | Parkland B2: the two pools back (row 352 reversed). The ring's island a fountain at Z1, a ring of twelve jets and a sculpture of light. The ring's planted shoulders stay | user-directed: "There should also be the two water pools back" | — | — | `docs/p67_parkland_expo.png` |
+| 362 | Jets draw as water: a ripple at the foot, a fine column, a soft plume | proposed (assistant, 27 October) | Jets never read as arrows | — | — |
 
 ## Open decisions (to make)
 

diff --git a/prototypes/p6/README.md b/prototypes/p6/README.md
@@ -1,6 +1,6 @@
 # DUMMIES — P6 prototype: three districts, managed traffic across levels
 
-**P6.4 · 27 October 2026 · Lawrence Lek** · Spec: GDD Edits 62–66 (proposed), built on Edits 51–61. P3, P4 and P5 are unchanged.
+**P6.5 · 27 October 2026 · Lawrence Lek** · Spec: GDD Edits 62–67 (proposed), built on Edits 51–61. P3, P4 and P5 are unchanged.
 
 P6 is the game on the three districts of the mock-ups. District 2, Waterfront, replaces Circus.
 
@@ -45,8 +45,11 @@ P6 is the game on the three districts of the mock-ups. District 2, Waterfront, r
 - **Raised layers at the screen's edge (P6.4):** drawn to the edge, past the lift. A screen's edge never ends a walkway.
   - At a level, a north–south crossing happens at the edge as drawn. The dummy never leaves the view.
 - **Wayfinding (P6.4):** every apron a lit mat, chevrons into its flight. Monument B2: guide strips to the ring escalators.
-- **Parkland (P6.4):** cyber turf in every garden cell, LED studs, four lit sculptures a screen.
-  - B2: the ring planted on its shoulders; its island a garden at Z1; lawns and large sculptures under the ring.
+- **Parkland (P6.5): an Expo site.** Paved; every open garden cell takes a programme in a fixed rotation.
+  - Pavilions (dome, LED box, canopy; solid to plan), parterres (framed lit lawns), fountains, sculpture courts.
+  - Cells part-free beside roads, decks and flights: a small round fountain.
+  - Great lawns: a paved cross-walk, a reflecting rill with jets on the long axis.
+  - B2: the two pools back; the ring planted on its shoulders; its island a fountain at Z1 with a ring of jets.
 - **Monument B2 (P6.4):** square paving, as the district's ground. No 45° lattice.
 - **Tunnel (Waterfront B1):** the dummy walks in. It stops at the top edge of B1, not the mouth.
 - **River:** sink `proto.rescueSinkSeconds` (2 s). A drone flies in from the nearest edge at `proto.droneSpeed`.
@@ -80,7 +83,7 @@ P6 is the game on the three districts of the mock-ups. District 2, Waterfront, r
 
 ## Evidence
 
-- `node test_p6.js 3` → 44/44: starts, edge audit, managed traffic, climbs, walkway openings, drops, tunnel, rescue, hits, the shift.
+- `node test_p6.js 3` → 44/44 (P6.5): starts, edge audit, managed traffic, climbs, walkway openings, drops, tunnel, rescue, hits, the shift.
 - Playtest audit (in `test_p6.js`): 47 flights walked up and down; 122 building plans solid; 23 walkway ends clean.
 - `node test_sim.js` → 104/104 (this copy and P5).
 - Browser: no page errors over scripted play in all three districts.
@@ -96,6 +99,8 @@ P6 is the game on the three districts of the mock-ups. District 2, Waterfront, r
 ![P6.3 playtest routes](docs/p65_playtest_routes.png)
 
 ![P6.4: Parkland B2 and Monument B2, before and after](docs/p66_before_after.png)
+
+![P6.5: Parkland as an Expo site](docs/p67_parkland_expo.png)
 
 ## Known gaps
 
